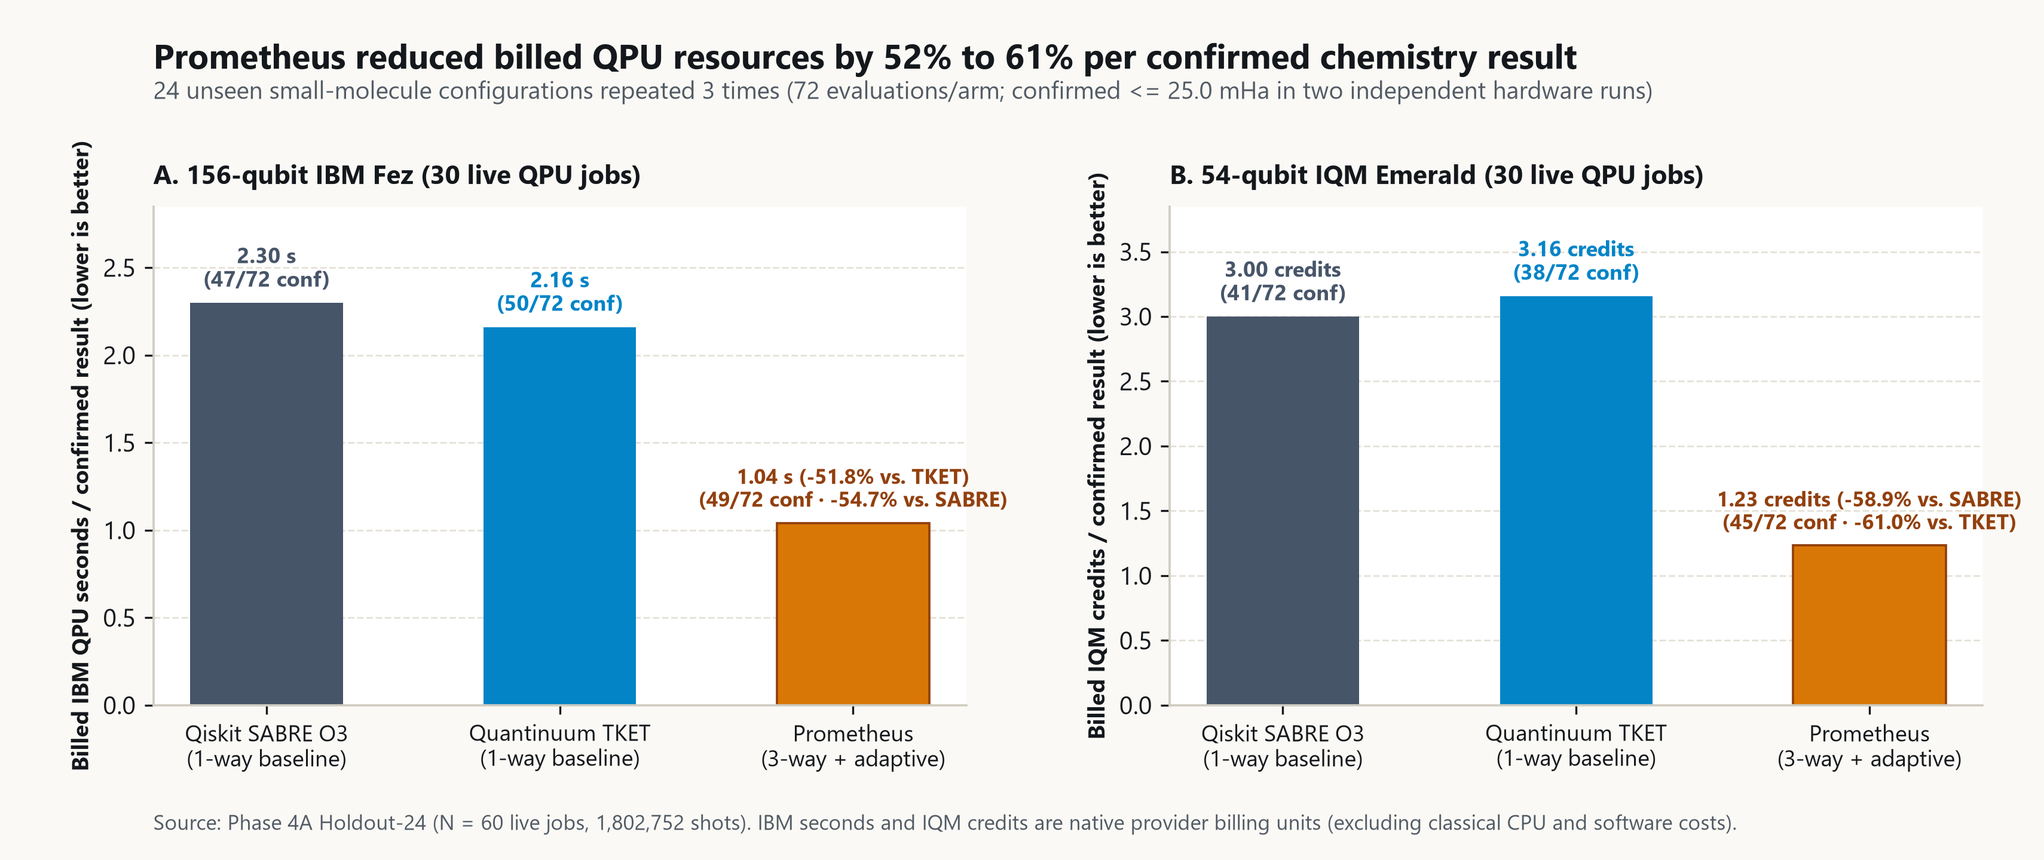
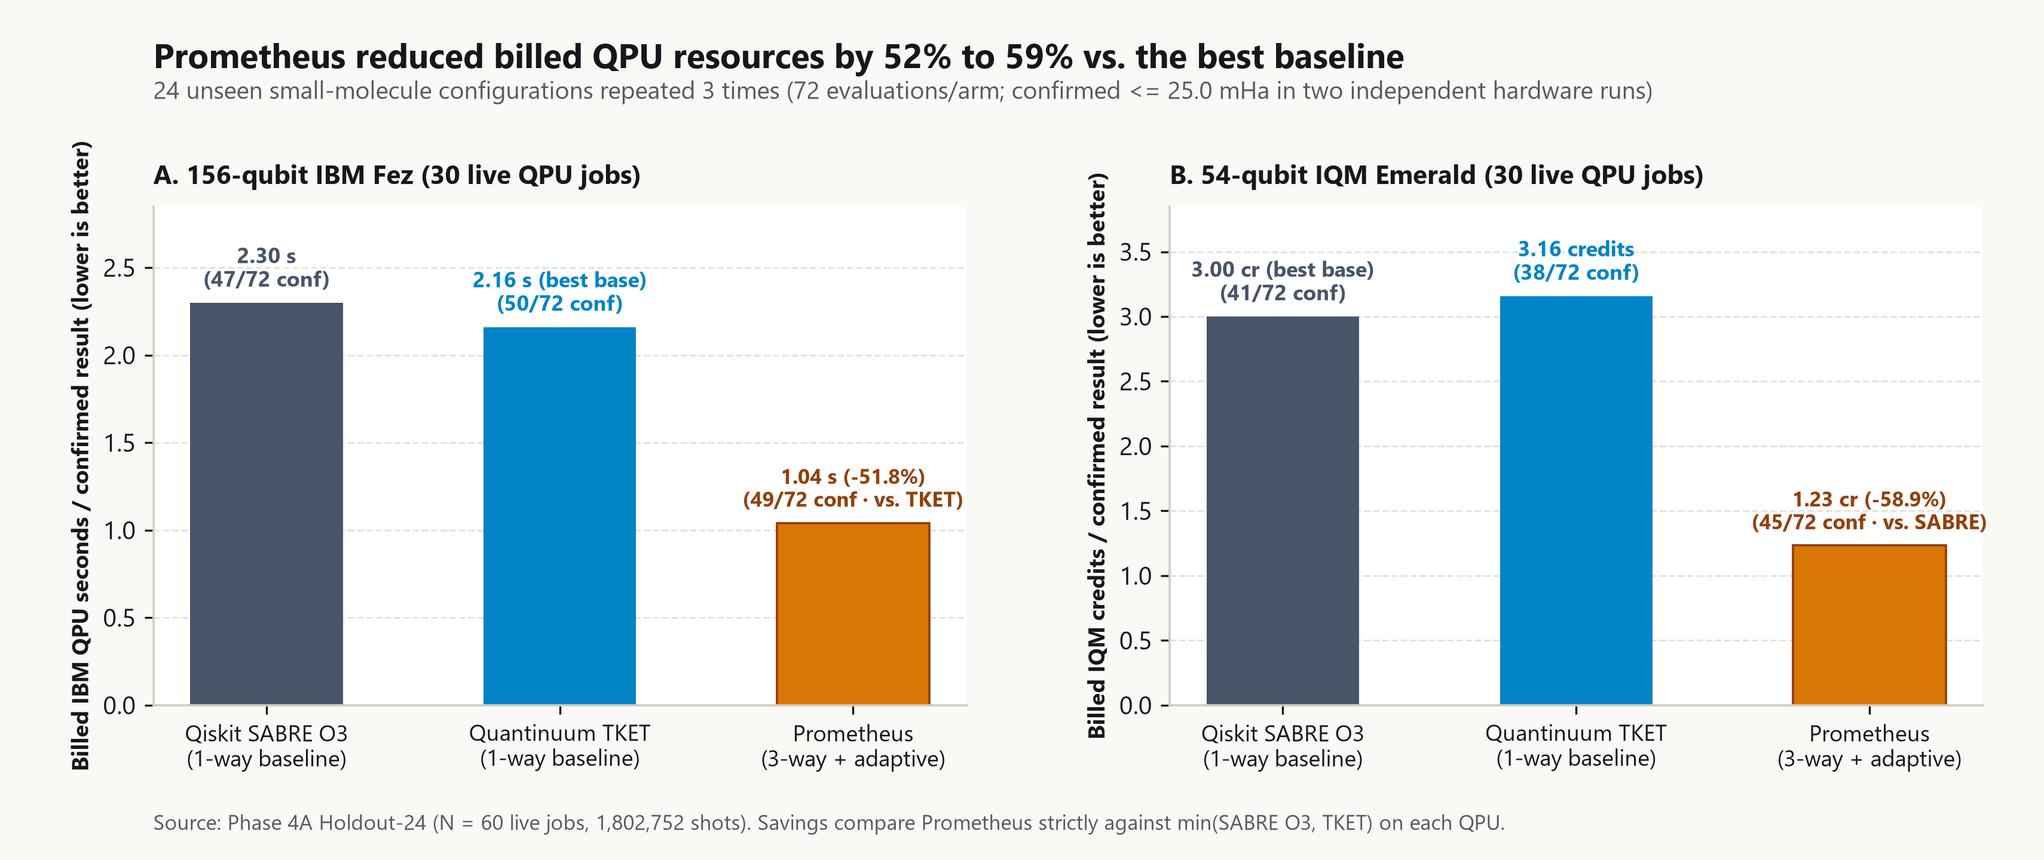
Compare headline gains strictly vs. best baseline and format USD amounts to 2 decimals

diff --git a/reports/prometheus_phase4_capstone_evidence_release.md b/reports/prometheus_phase4_capstone_evidence_release.md
@@ -2,7 +2,7 @@
 
 ## Overview: Problem, Measured Achievement, and Scope
 
-- **Problem & Achievement:** Across **32 molecular configurations** and **172 live benchmark jobs** (`4,812` circuit submissions, `3,756,032` physical shots) on IBM and IQM hardware, Prometheus worked alongside Qiskit SABRE and Quantinuum TKET to reduce **charged hardware resources per confirmed accurate calculation (`<= 25.0 mHa`) by 51.8% to 68.5%** - both across **24 untouched holdout configurations (`Phase 4A`)** and during **live iterative optimization started from Hartree-Fock (`Phase 4B`)**.
+- **Problem & Achievement:** Across **32 molecular configurations** and **172 live benchmark jobs** (`4,812` circuit submissions, `3,756,032` physical shots) on IBM and IQM hardware, Prometheus worked alongside Qiskit SABRE and Quantinuum TKET to reduce **charged hardware resources per confirmed accurate calculation (`<= 25.0 mHa`) by 51.8% to 60.0% vs. the best baseline** - both across **24 untouched holdout configurations (`Phase 4A`)** and during **live iterative optimization started from Hartree-Fock (`Phase 4B`)**.
 - **Why It Matters:** Research teams run roughly twice as many confirmed chemistry calculations within the same hardware allowance, while hardware providers and software partners extract more useful output per processor window alongside established Qiskit SABRE and Quantinuum TKET workflows (`49/49` early measurement stops confirmed).
 - **Scope & Verification:** Savings measure provider-charged QPU seconds and hardware credits rather than software or classical compute costs; single-provider Prometheus outperformed dual-provider splits (`42/72` in `Phase 4A`, `3/6` strict in `Phase 4B`). Verify every pre-execution lock, billing total, and trajectory step offline via [`verify_phase4_public_release.py`](../scripts/verify_phase4_public_release.py).
 
@@ -13,8 +13,8 @@
 >    - **IQM Resonance (`emerald`, `54Q`, `30` Jobs):** Under frozen `Sym-REM`, **`P3_Prom_IQM`** achieved the highest confirmed count on IQM (**`45 / 72`, `62.5%`**) at **`1.233 cr` per confirmed calculation** (`55.50 cr` total), reducing billed IQM credits per confirmed result by **`58.9%` vs. `P1_SABRE_IQM`** (`41 / 72` at `3.000 cr`, `123.00 cr` total) and **`61.0%` vs. `P2_TKET_IQM`** (`38 / 72` at `3.158 cr`, `120.00 cr` total). Under **`Raw v2.0`**, `P3_Prom_IQM` also led (`16 / 72`; paired vs. `TKET` $p_{\text{Holm}} = 0.0044$), cutting IQM credits per confirmed result by **`63.3%` to `65.3%`**.
 > 2. **Live Closed-Loop Iterative Chemistry (`Phase 4B`, `Cohort Chem-4B-6`, Cold-Start `8`-Step `SPSA` from Restricted Hartree-Fock $\boldsymbol{\phi}_0 = \mathbf{0}$, `92` Jobs, `1,874` PUBs, `1,715,200` Shots):**
 >    - Starting cold at Restricted Hartree-Fock (`0 / 6` configurations within `25.0 mHa`; initial exact error `50.57 mHa` `*(median)*`, `54.54 mHa` `*(mean)*`) with zero pre-optimized variational parameters, `Phase 4B` foregrounds **Strict Joint Success** (exact noiseless variational error $|E_{\text{ideal}}(\hat{\boldsymbol{\phi}}_{\text{final}}) - E_{\text{DOCI}}| \le 25.0\text{ mHa}$ **AND** Primary `<= 25.0 mHa` **AND** independent Confirm `<= 25.0 mHa`), preventing noisy `8Q` cancellation (`M_Hold_21` $\text{H}_8$: `40.2 mHa` learned error despite `4.0 / 7.7 mHa` agreeing hardware checks) from overstating closed-loop accuracy:
->    - **IBM Quantum (`ibm_fez`, `46` Jobs):** **`P4B_Prom_IBM`** achieved **`5 / 6` strict successes at `9.20 s` per calculation** (`46.0 s` total; `6 / 6` hardware-only confirmed at `7.67 s`), reducing billed IBM seconds per strict success by **`52.8%` vs. `P4B_TKET_IBM`** (`6 / 6` at `19.50 s`, `117.0 s` total) and **`68.5%` vs. `P4B_SABRE_IBM`** (`4 / 6` at `29.25 s`, `117.0 s` total).
->    - **IQM Resonance (`emerald`, `46` Jobs):** **`P4B_Prom_IQM`** achieved **`4 / 6` strict successes at `12.75 cr` per calculation** (`51.00 cr` total), reducing billed IQM credits per strict success by **`60.0%` vs. `P4B_SABRE_IQM`** (`4 / 6` at `31.88 cr`, `127.50 cr` total) and **`60.7%` vs. `P4B_TKET_IQM`** (`4 / 6` at `32.44 cr`, `129.75 cr` total), while converging **`6 / 6` (`100.0%`)** exact learned states below `25.0 mHa` (`<= 22.50 mHa`).
+>    - **IBM Quantum (`ibm_fez`, `46` Jobs):** **`P4B_Prom_IBM`** achieved **`5 / 6` strict successes at `9.20 s` per calculation** (`46.0 s` total; `6 / 6` hardware-only confirmed at `7.67 s`), reducing billed IBM seconds per strict success by **`52.8%` vs. best baseline `P4B_TKET_IBM`** (`6 / 6` at `19.50 s`, `117.0 s` total; `P4B_SABRE_IBM` `4 / 6` at `29.25 s`).
+>    - **IQM Resonance (`emerald`, `46` Jobs):** **`P4B_Prom_IQM`** achieved **`4 / 6` strict successes at `12.75 cr` per calculation** (`51.00 cr` total), reducing billed IQM credits per strict success by **`60.0%` vs. best baseline `P4B_SABRE_IQM`** (`4 / 6` at `31.88 cr`, `127.50 cr` total; `P4B_TKET_IQM` `32.44 cr`), while converging **`6 / 6` (`100.0%`)** exact learned states below `25.0 mHa` (`<= 22.50 mHa`).
 > 3. **Reference-Free Adaptive Control & Fleet Findings:** Across `Phase 4A + Phase 4B`, **`49 / 49` (`100.0%`)** Rung-1 early stops (`43 / 43` in `Phase 4A` + `6 / 6` in `Phase 4B`) passed dual confirmation (`0` false stops), and **`9 / 9` (`100.0%`)** early-frozen `Phase 4B` `SPSA` trajectories met exact noiseless accuracy (`3.78 mHa` `*(median)*`, `5.15 mHa` `*(mean)*`; `8 / 9` hardware-confirmed). Dual-provider fleet policies (`42 / 72` in `Phase 4A`; `3 / 6` strict in `Phase 4B`) split provider quotas cleanly without breaking intra-molecule `3`-way packs, while trailing single-provider Prometheus in confirmed accuracy and identifying cross-provider calibration matching as the next engineering target.
 > 4. **Complete `172`-Job Accounting & Zero-Credential Verification:** Across `Stage 4.0 + Phase 4A + Phase 4B`, Prometheus executed **`172` globally unique QPU jobs** (`86` IBM + `86` IQM; [phase4_master_172_job_ledger.csv](../ledgers/phase4_master_172_job_ledger.csv)), **`4,812` PUBs** (`4,468` QWC + `344` readout calibration witness PUBs), and **`3,756,032` physical shots**, settling at **`675.0 s / 749.0 s` (`-9.9%`)** on IBM Quantum (`590.0 s` live pool reserve left) and **`735.75 cr / 779.25 cr` (`-5.6%`)** on IQM Resonance (`145.50 cr` ledger reserve left), verified with `0.00e+00` drift by [verify_phase4_public_release.py](../scripts/verify_phase4_public_release.py).
 
@@ -50,7 +50,7 @@
 | :--- | :---: | :---: | :---: | :---: | :---: | :---: | :---: | :---: | :---: | :---: | :---: | :---: | :---: |
 | **`P4B_SABRE_IBM`** (`ibm_fez`) | **`11`** / `364` / `362,496` | `315` / `10.0` / `17.50` | `41.5` / `51.72` | `0.876` / `0.858` | `5 / 6` (`83.3%`) | `4.49` / `10.45` | `5 / 6` (`23.40 s`) | `4 / 6` (`66.7%`) | `12.89` / `10.54` | `0 / 6` (`30.66` / `42.72`) | `117.0 s` + `0.00 cr` *(IBM-only)* | `29.25 s` | `+50.0%` vs `TKET` (`0/6` Raw: `Undefined`) |
 | **`P4B_TKET_IBM`** (`ibm_fez`) | **`11`** / `364` / `362,496` | `285` / `10.0` / `15.83` | `40.0` / `47.11` | **`0.883`** / **`0.869`** | **`6 / 6` (`100.0%`)** | **`3.87`** / **`8.01`** | **`6 / 6`** (`19.50 s`) | **`6 / 6` (`100.0%`)** | `5.82` / `6.22` | **`2 / 6`** (**`35.48`** / **`38.69`**) | `117.0 s` + `0.00 cr` *(IBM-only)* | `19.50 s` | `0.0%` *(Best IBM Baseline; `58.50 s` Raw)* |
-| **`P4B_Prom_IBM`** (`ibm_fez` adaptive) | `12` / **`128`** / **`79,872`** | **`281`** / **`9.5`** / **`15.61`** | **`39.0`** / **`43.39`** | `0.878` / **`0.869`** | `5 / 6` (`83.3%`) | `4.27` / `10.36` | **`6 / 6` (`7.67 s`)** | `5 / 6` (`83.3%`) | **`4.53`** / **`4.74`** | `1 / 6` (`40.21` / `43.02`) | **`46.0 s`** + `0.00 cr` *(IBM-only)* | **`9.20 s`** | **`-52.8%` vs `TKET` (`-68.5%` vs `SABRE`)** (`46.00 s` Raw) |
+| **`P4B_Prom_IBM`** (`ibm_fez` adaptive) | `12` / **`128`** / **`79,872`** | **`281`** / **`9.5`** / **`15.61`** | **`39.0`** / **`43.39`** | `0.878` / **`0.869`** | `5 / 6` (`83.3%`) | `4.27` / `10.36` | **`6 / 6` (`7.67 s`)** | `5 / 6` (`83.3%`) | **`4.53`** / **`4.74`** | `1 / 6` (`40.21` / `43.02`) | **`46.0 s`** + `0.00 cr` *(IBM-only)* | **`9.20 s`** | **`-52.8%` vs best base `TKET`** (`46.00 s` Raw) |
 | **`P4B_SABRE_IQM`** (`emerald`) | **`11`** / `364` / `362,496` | `255` / **`8.0`** / `14.17` | `25.0` / `31.56` | `0.858` / `0.831` | `4 / 6` (`66.7%`) | `5.38` / `12.10` | **`4 / 6`** (`31.88 cr`) | **`4 / 6` (`66.7%`)** | **`4.82`** / **`11.15`** | `0 / 6` (`47.46` / **`55.45`**) | `0.0 s` *(IQM-only)* + `127.50 cr` | `31.88 cr` | `0.0%` *(Best IQM Baseline; `0/6` Raw: `Undefined`)* |
 | **`P4B_TKET_IQM`** (`emerald`) | **`11`** / `364` / `362,496` | `291` / **`8.0`** / `16.17` | **`24.0`** / `34.50` | **`0.865`** / **`0.835`** | `4 / 6` (`66.7%`) | **`5.00`** / `16.16` | **`4 / 6`** (`32.44 cr`) | **`4 / 6` (`66.7%`)** | `9.01` / `13.53` | `0 / 6` (`54.90` / `69.52`) | `0.0 s` *(IQM-only)* + `129.75 cr` | `32.44 cr` | `+1.8%` vs `SABRE` (`0/6` Raw: `Undefined`) |
 | **`P4B_Prom_IQM`** (`emerald` adaptive) | `12` / **`132`** / **`83,968`** | **`249`** / **`8.0`** / **`13.83`** | **`24.0`** / **`30.11`** | `0.859` / `0.832` | **`6 / 6` (`100.0%`)** | `6.98` / **`10.22`** | **`4 / 6` (`12.75 cr`)** | **`4 / 6` (`66.7%`)** | `11.78` / `19.30` | `0 / 6` (**`42.05`** / `58.24`) | `0.0 s` *(IQM-only)* + **`51.00 cr`** | **`12.75 cr`** | **`-60.0%` vs `SABRE` (`-60.7%` vs `TKET`)** (`0/6` Raw: `Undefined`) |

diff --git a/reports/phase4b_iterative_spsa_campaign_report.md b/reports/phase4b_iterative_spsa_campaign_report.md
@@ -19,7 +19,7 @@ Because two noisy hardware measurements on `8Q` circuits can occasionally agree 
 |---|---|---:|---:|---:|---:|---:|---:|---|---:|---:|---|---:|---:|---:|---:|
 | `P4B_SABRE_IBM` | `ibm_fez` | **11** | 364 | 362,496 | 117.0 | 0.00 | 4 / 6 (66.7%) | 29.25 s | +50.0% (vs TKET IBM) | 5 / 6 (83.3%) | 23.40 s | 12.89 / 10.54 | 4.49 / 10.45 | 10.0 | 41.5 |
 | `P4B_TKET_IBM` | `ibm_fez` | **11** | 364 | 362,496 | 117.0 | 0.00 | **6 / 6 (100.0%)** | 19.50 s | 0.0% (Best IBM Baseline) | **6 / 6 (100.0%)** | 19.50 s | 5.82 / 6.22 | **3.87 / 8.01** | 10.0 | 40.0 |
-| `P4B_Prom_IBM` | `ibm_fez` | 12 | **128** | **79,872** | **46.0** | 0.00 | 5 / 6 (83.3%) | **9.20 s** | **-52.8% vs TKET (-68.5% vs SABRE)** | **6 / 6 (100.0%)** | **7.67 s** | **4.53 / 4.74** | 4.27 / 10.36 | 9.5 | 39.0 |
+| `P4B_Prom_IBM` | `ibm_fez` | 12 | **128** | **79,872** | **46.0** | 0.00 | 5 / 6 (83.3%) | **9.20 s** | **-52.8% vs TKET** | **6 / 6 (100.0%)** | **7.67 s** | **4.53 / 4.74** | 4.27 / 10.36 | 9.5 | 39.0 |
 | `P4B_SABRE_IQM` | `emerald` | **11** | 364 | 362,496 | 0.0 | 127.50 | 4 / 6 (66.7%) | 31.88 cr | 0.0% (Best IQM Baseline) | 4 / 6 (66.7%) | 31.88 cr | 4.82 / 11.15 | 5.38 / 12.10 | **8.0** | 25.0 |
 | `P4B_TKET_IQM` | `emerald` | **11** | 364 | 362,496 | 0.0 | 129.75 | 4 / 6 (66.7%) | 32.44 cr | +1.8% (vs SABRE IQM) | 4 / 6 (66.7%) | 32.44 cr | 9.01 / 13.53 | 5.00 / 16.16 | **8.0** | **24.0** |
 | `P4B_Prom_IQM` | `emerald` | 12 | 132 | 83,968 | 0.0 | **51.00** | 4 / 6 (66.7%) | **12.75 cr** | **-60.0% vs SABRE (-60.7% vs TKET)** | 4 / 6 (66.7%) | **12.75 cr** | 11.78 / 19.30 | 6.98 / 10.22 | **8.0** | **24.0** |
@@ -27,8 +27,8 @@ Because two noisy hardware measurements on `8Q` circuits can occasionally agree 
 
 > [!IMPORTANT]
 > **Headline Empirical Result (Closed-Loop Optimization from Cold `RHF`, Strict Variational + Hardware Accounting):**
-> - **On IBM Heron (`ibm_fez`):** Under **Strict Joint Success** (`Learned State <= 25.0 mHa` **and** `Primary <= 25.0 mHa` **and** `Confirm <= 25.0 mHa`), `P4B_Prom_IBM` achieved **`5 / 6` strict successes at `9.20 s` per calculation** (`46.0 s` total), cutting billed IBM seconds per strict success by **`52.8%` vs. `P4B_TKET_IBM`** (`6 / 6` at `19.50 s`, `117.0 s` total) and **`68.5%` vs. `P4B_SABRE_IBM`** (`4 / 6` at `29.25 s`, `117.0 s` total). Note why this strict criterion is essential: on `8Q` $\text{H}_8$ (`M_Hold_21`), `P4B_Prom_IBM` passed both measured hardware checks (`4.0 / 7.7 mHa`, giving `6 / 6` hardware-only confirmations at `7.67 s/calc`) even though its learned variational state remained `40.2 mHa` above $E_{\text{DOCI}}$ (`P4B_SABRE_IBM` similarly had `33.1 mHa` noiseless error on `M_Hold_21`).
-> - **On IQM Resonance (`emerald`):** `P4B_Prom_IQM` achieved **`4 / 6` strict successes** (identical to its `4 / 6` hardware-confirmed count and matching `4 / 6` for both `P4B_SABRE_IQM` and `P4B_TKET_IQM`) at **`12.75 cr` per strict success** (`51.00 cr` total vs. `127.50 cr` `SABRE` and `129.75 cr` `TKET`), reducing billed IQM credits per strict success by **`60.0%` vs. `SABRE`** (`31.88 cr`) and **`60.7%` vs. `TKET`** (`32.44 cr`). Furthermore, **`P4B_Prom_IQM` was the only IQM policy whose live hardware-driven optimization trajectory converged below `25.0 mHa` in exact variational energy on all `6 / 6` configurations** ($|E_{\text{ideal}}(\hat{\boldsymbol{\phi}}_{\text{final}}) - E_{\text{DOCI}}| \le 22.5\text{ mHa}$, `10.22 mHa` `*(mean)*`).
+> - **On IBM Heron (`ibm_fez`):** Under **Strict Joint Success** (`Learned State <= 25.0 mHa` **and** `Primary <= 25.0 mHa` **and** `Confirm <= 25.0 mHa`), `P4B_Prom_IBM` achieved **`5 / 6` strict successes at `9.20 s` per calculation** (`46.0 s` total), cutting billed IBM seconds per strict success by **`52.8%` vs. best baseline `P4B_TKET_IBM`** (`6 / 6` at `19.50 s`, `117.0 s` total; `P4B_SABRE_IBM` `4 / 6` at `29.25 s`). Note why this strict criterion is essential: on `8Q` $\text{H}_8$ (`M_Hold_21`), `P4B_Prom_IBM` passed both measured hardware checks (`4.0 / 7.7 mHa`, giving `6 / 6` hardware-only confirmations at `7.67 s/calc`) even though its learned variational state remained `40.2 mHa` above $E_{\text{DOCI}}$ (`P4B_SABRE_IBM` similarly had `33.1 mHa` noiseless error on `M_Hold_21`).
+> - **On IQM Resonance (`emerald`):** `P4B_Prom_IQM` achieved **`4 / 6` strict successes** (identical to its `4 / 6` hardware-confirmed count and matching `4 / 6` for both `P4B_SABRE_IQM` and `P4B_TKET_IQM`) at **`12.75 cr` per strict success** (`51.00 cr` total vs. `127.50 cr` `SABRE` and `129.75 cr` `TKET`), reducing billed IQM credits per strict success by **`60.0%` vs. best baseline `SABRE`** (`31.88 cr`; `TKET` `32.44 cr`). Furthermore, **`P4B_Prom_IQM` was the only IQM policy whose live hardware-driven optimization trajectory converged below `25.0 mHa` in exact variational energy on all `6 / 6` configurations** ($|E_{\text{ideal}}(\hat{\boldsymbol{\phi}}_{\text{final}}) - E_{\text{DOCI}}| \le 22.5\text{ mHa}$, `10.22 mHa` `*(mean)*`).
 
 ![Figure 1: Phase 4B Cost per Confirmed Calculation and Dual-Estimator Confirmed Counts](../figures/fig1_phase4b_spsa_cost_to_accuracy.png)
 
@@ -54,7 +54,7 @@ In accordance with pre-execution commitments, Table 2 co-reports:
 Evaluating $|E_{\text{ideal}}(\hat{\boldsymbol{\phi}}_{\text{final}}) - E_{\text{DOCI}}|$ cleanly separates closed-loop parameter learning from final hardware readout distortion in **both** directions:
 1. **Good Trajectory Masked by Final Readout Noise (`P4B_Prom_IQM` on `M_Hold_12` and `M_Hold_21`):** Under `P4B_Prom_IQM`, live `8`-step `SPSA` successfully drove exact variational energy error down from `63.95 mHa -> 22.50 mHa` on `6Q` `H6_chain` (`M_Hold_12`) and from `48.39 mHa -> 19.68 mHa` on `8Q` `H8_chain` (`M_Hold_21`), making `P4B_Prom_IQM` (`6 / 6` exact variational convergence) superior to `P4B_SABRE_IQM` (`4 / 6`, `27.8` & `28.7 mHa`) and `P4B_TKET_IQM` (`4 / 6`, `39.2` & `42.4 mHa`). However, final `emerald` readout bias on `6` to `8` qubit circuits yielded `64.6 / 65.6 mHa` (`M_Hold_12`) and `19.6 / 35.0 mHa` (`M_Hold_21`), preventing hardware confirmation on those two chains.
 2. **Incomplete `8Q` Trajectory Partially Masked by Depolarizing Contraction (`M_Hold_21` on `IBM` & `Fleet_v2`):** Conversely, on `8Q` `H8_chain` (`M_Hold_21`), `P4B_Prom_IBM` (`40.2 mHa` noiseless error vs. `4.0 / 7.7 mHa` hardware `Sym-REM`), `P4B_SABRE_IBM` (`33.1 mHa` noiseless error vs. `17.6 / 7.3 mHa` hardware `Sym-REM`), and `P4B_Prom_Fleet_v2` (`80.1 mHa` noiseless error vs. `15.9 / 19.6 mHa` hardware `Sym-REM`) satisfied both Primary and Confirm `<= 25.0 mHa` hardware checks even though their learned variational states remained `> 25.0 mHa` above $E_{\text{DOCI}}$ due to residual depolarizing sign/scale cancellation on `8Q` `XX+YY` off-diagonal corridors.
-3. **Efficiency Holds Under the Strict Joint Criterion:** Even when restricting credit strictly to calculations that pass **all three** gates simultaneously (`Noiseless <= 25 mHa` + `Primary <= 25 mHa` + `Confirm <= 25 mHa`), `P4B_Prom_IBM` (`5/6` at **`9.20 s/calc`**) still cuts IBM seconds per strict-confirmed calculation by **`52.8%` vs. `P4B_TKET_IBM`** (`6/6` at `19.50 s/calc`) and **`68.5%` vs. `P4B_SABRE_IBM`** (`4/6` at `29.25 s/calc`), while `P4B_Prom_IQM` (`4/6` at **`12.75 cr/calc`**) cuts IQM credits per strict-confirmed calculation by **`60.0%` vs. `P4B_SABRE_IQM`** (`31.88 cr/calc`) and **`60.7%` vs. `P4B_TKET_IQM`** (`32.44 cr/calc`).
+3. **Efficiency Holds Under the Strict Joint Criterion:** Even when restricting credit strictly to calculations that pass **all three** gates simultaneously (`Noiseless <= 25 mHa` + `Primary <= 25 mHa` + `Confirm <= 25 mHa`), `P4B_Prom_IBM` (`5/6` at **`9.20 s/calc`**) still cuts IBM seconds per strict-confirmed calculation by **`52.8%` vs. best baseline `P4B_TKET_IBM`** (`6/6` at `19.50 s/calc`; `P4B_SABRE_IBM` `4/6` at `29.25 s/calc`), while `P4B_Prom_IQM` (`4/6` at **`12.75 cr/calc`**) cuts IQM credits per strict-confirmed calculation by **`60.0%` vs. best baseline `P4B_SABRE_IQM`** (`31.88 cr/calc`; `P4B_TKET_IQM` `32.44 cr/calc`).
 4. **Why `Raw v2.0` Struggles on Stretched Bonds:** Across `Cohort Chem-4B-6`, bond stretching (`1.4 - 2.65` $\text{\AA}$ and `86.5` deg `H4`) produces large off-diagonal `XX + YY` correlation amplitudes (`34.1 - 74.6 mHa` below `RHF`). Without `Sym-REM` Pauli-weight attenuation rescaling, gate depolarization shrinks off-diagonal `X`/`Y` expectation values toward `0` (i.e., back toward the `RHF` energy), leaving `Raw v2.0` median primary errors at `30.7 - 56.3 mHa` (`0/6` to `2/6` confirmed).
 
 ![Figure 2: Phase 4B Live Hardware-Driven SPSA Convergence Trajectories Across Steps 0..8](../figures/fig2_phase4b_spsa_live_trajectories.png)

diff --git a/README.md b/README.md
@@ -6,12 +6,12 @@
 
 - **The question:** Can quantum chemistry workflows reach verified molecular-energy accuracy (`<= 25.0 mHa` error in two independent hardware runs) while spending substantially less billed QPU time and credits?
 - **The test:** Across `172` live QPU jobs (`4,812` PUBs, `3,756,032` physical shots on `156Q` `ibm_fez` and `54Q` `IQM Emerald`), we compared Prometheus (`3-way` spatial packing + adaptive measurement stopping) against isolated `1-way` Qiskit SABRE O3 and Quantinuum TKET on `24` unseen `4Q-8Q` molecular configurations (`3` repeats each) and `6` cold-start iterative `SPSA` optimizations.
-- **The finding:** On the `24` unseen molecular configurations, Prometheus cut billed hardware cost per confirmed result by **`51.8%` to `54.7%` on IBM** (`1.04 s` vs. `2.16-2.30 s`) and **`58.9%` to `61.0%` on IQM** (`1.23 cr` vs. `3.00-3.16 cr`). During live iterative `SPSA` optimization, billed cost fell **`52.8%` to `68.5%` on IBM** (`9.20 s` vs. `19.50-29.25 s`) and **`60.0%` to `60.7%` on IQM** (`12.75 cr` vs. `31.88-32.44 cr`), with **`49/49` early stops confirmed**.
+- **The finding:** Compared strictly against the best baseline (`min(SABRE O3, TKET)`) in each test, Prometheus cut billed hardware cost per confirmed result on the `24` unseen molecular configurations by **`51.8%` on IBM** (`1.04 s` vs. `2.16 s` best baseline TKET; SABRE `2.30 s`) and **`58.9%` on IQM** (`1.23 cr` vs. `3.00 cr` best baseline SABRE; TKET `3.16 cr`). During live iterative `SPSA` optimization, billed cost fell **`52.8%` vs. best baseline TKET on IBM** (`9.20 s` vs. `19.50 s`) and **`60.0%` vs. best baseline SABRE on IQM** (`12.75 cr` vs. `31.88 cr`), with **`49/49` early stops confirmed**.
 - **The significance:** Chemistry and materials R&D teams can evaluate roughly twice as many bond geometries or optimization steps within the same cloud hardware allocation.
 - **The boundary:** Savings measure provider-billed QPU resources on `4Q-8Q` benchmark active spaces (excluding classical compute and wet-lab validation); splitting circuits across two clouds trailed single-processor execution (`42/72` vs. `49/72` confirmed).
 - **The evidence:** Simplified cost comparison chart and summary table below, with full `Phase 4A`, `4B`, and `Stage 4.0` ledgers and multi-panel figures underneath.
 
-![Prometheus reduced billed QPU resources by 52% to 61% per confirmed chemistry result](./figures/fig0_simple_chemistry_cost.png)
+![Prometheus reduced billed QPU resources by 52% to 59% vs. the best baseline](./figures/fig0_simple_chemistry_cost.png)
 *Opening summary (`Phase 4A` Holdout-24, `N = 60` live jobs): Billed IBM seconds and IQM credits per dual-wave confirmed `<= 25.0 mHa` molecular-energy calculation.*
 
 ---
@@ -22,10 +22,10 @@
 
 | Stage & Provider (`QPU`) | Qiskit SABRE Cost/Accepted `(↓)` | Quantinuum TKET Cost/Accepted `(↓)` | Prometheus Cost/Accepted `(↓)` | Mean `2Q` Gates / Depth (`Prom`) `(↓)` | Symmetry $\eta_{\text{sym}}$ `*(mean)*` (`Prom`) `(↑)` | Cost Delta vs. Best Baseline `(↓)` |
 | :--- | :---: | :---: | :---: | :---: | :---: | :---: |
-| **`Phase 4A` Holdout-24 (`ibm_fez`)** | `2.298 s` (`47/72` conf) | `2.160 s` (`50/72` conf) | **`1.041 s`** (`49/72` conf) | **`30.17` / `70.36`** | **`0.8277`** | **`-51.8%` vs. TKET (`-54.7%` vs. S)** |
-| **`Phase 4A` Holdout-24 (`IQM Emerald`)** | `3.000 cr` (`41/72` conf) | `3.158 cr` (`38/72` conf) | **`1.233 cr`** (**`45/72`** conf) | `20.58` / **`43.18`** | **`0.7928`** | **`-58.9%` vs. SABRE (`-61.0%` vs. T)** |
-| **`Phase 4B` Live `SPSA` (`ibm_fez`)** | `29.25 s` (`4/6` strict) | `19.50 s` (**`6/6`** strict) | **`9.20 s`** (`5/6` strict) | **`15.61` / `43.39`** | **`0.869`** | **`-52.8%` vs. TKET (`-68.5%` vs. S)** |
-| **`Phase 4B` Live `SPSA` (`IQM Emerald`)** | `31.88 cr` (`4/6` strict) | `32.44 cr` (`4/6` strict) | **`12.75 cr`** (`4/6` strict) | **`13.83` / `30.11`** | `0.832` | **`-60.0%` vs. SABRE (`-60.7%` vs. T)** |
+| **`Phase 4A` Holdout-24 (`ibm_fez`)** | `2.298 s` (`47/72` conf) | `2.160 s` (`50/72` conf) | **`1.041 s`** (`49/72` conf) | **`30.17` / `70.36`** | **`0.8277`** | **`-51.8%` vs. best base TKET** |
+| **`Phase 4A` Holdout-24 (`IQM Emerald`)** | `3.000 cr` (`41/72` conf) | `3.158 cr` (`38/72` conf) | **`1.233 cr`** (**`45/72`** conf) | `20.58` / **`43.18`** | **`0.7928`** | **`-58.9%` vs. best base SABRE** |
+| **`Phase 4B` Live `SPSA` (`ibm_fez`)** | `29.25 s` (`4/6` strict) | `19.50 s` (**`6/6`** strict) | **`9.20 s`** (`5/6` strict) | **`15.61` / `43.39`** | **`0.869`** | **`-52.8%` vs. best base TKET** |
+| **`Phase 4B` Live `SPSA` (`IQM Emerald`)** | `31.88 cr` (`4/6` strict) | `32.44 cr` (`4/6` strict) | **`12.75 cr`** (`4/6` strict) | **`13.83` / `30.11`** | `0.832` | **`-60.0%` vs. best base SABRE** |
 
 *Metric Key:* Pre-submission subcircuits verified noiseless output-distribution agreement $F_B > 0.999999$ ($F_H = F_B^2 > 0.999998$). IBM seconds (`s`) and IQM credits (`cr`) are native provider billing units without cross-currency conversion.
 
